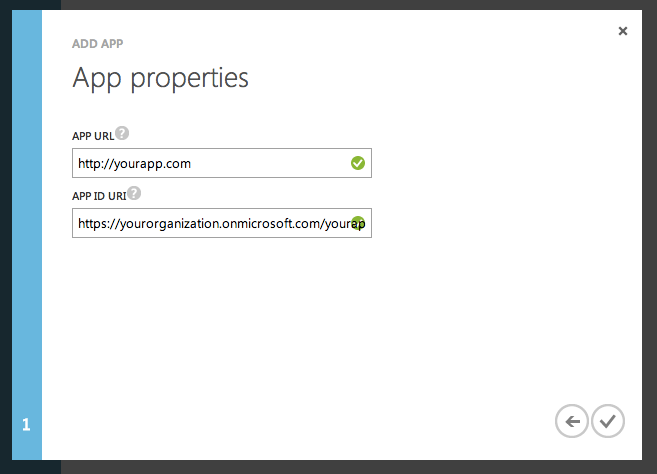
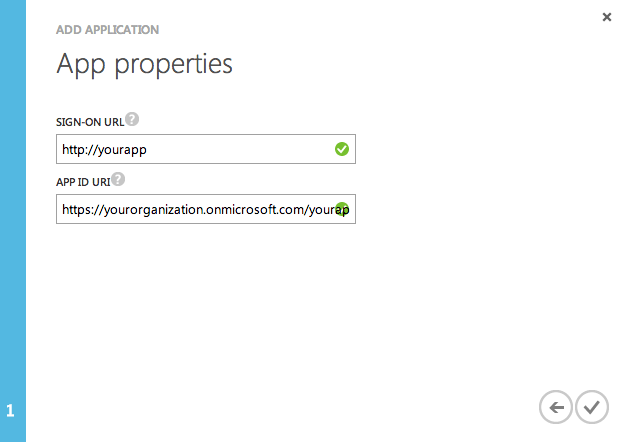
Updated WAAD ClientID tutorial

Changed region(s): [[0.0, 0.0, 1.0, 1.0]]

diff --git a/docs/waad-clientid.md b/docs/waad-clientid.md
@@ -10,55 +10,61 @@ After signing up on Windows Azure, click on **Active Directory** item on the Das
 
 <img src="img/waad-0.png" style="width: 60%;  border: 2px solid #eee;" />
 
-Click on **CREATE YOUR DIRECTORY**
+Click on **ADD+** at the bottom of the screen:
 
 <img src="img/waad-1.png" style="width: 60%;  border: 2px solid #eee;" />
 
-Enter the subdomain, e.g.: **@@account.tenant@@** (this could be anything, does not have to match with Auth0 subdomain and it will be used in the next step). Enter also your country and a friendly name for the organization.
+Enter a subdomain, e.g.: **@@account.tenant@@** (this could be anything, does not have to match with Auth0 subdomain and it will be used in the next step). Enter also your country and a friendly name for the organization.
 
 <img src="img/waad-2.png" style="width: 60%;  border: 2px solid #eee;" />
 
-## 2. Create a new Integrated Application
+## 2. Create a new Application
 
-Once the Windows Azure AD was created, go to **INTEGRATED APPS** and click on **ADD AN APP**
+Once the Windows Azure AD was created, go to **APPLICATIONS** and click on **ADD AN APPLICATION**:
 
 <img src="img/waad-3.png" style="width: 60%;  border: 2px solid #eee;" />
 
-Enter a friendly name for the application and select either **SINGLE SIGN ON** or **SINGLE SIGN ON, READ DIRECTORY DATA**. The permission to **READ DIRECTORY DATA** will allow you to do things like a query of "users in the Windows Azure AD domain".
+Select "Add an application my organization is developing":
+
+<img src="img/waad-3b.png" style="width: 60%;  border: 2px solid #eee;" />
+
+Enter a friendly name for the application and select "WEB APPLICATION AND/OR WEB API":
 
 <img src="img/waad-4.png" style="width: 60%;  border: 2px solid #eee;" />
 
-Enter the following:
+Proceed to the next screen and enter the following:
 
-* **APP URL**: your application URL (completely arbitrary)
+* **SIGN_ON URL**: your application URL (completely arbitrary)
 * **APP ID URI**: https://**@@account.tenant@@**.onmicrosoft.com/yourapp
 
 > NOTE: The APP ID URI is just a logical identifier, not a real URL. It is important to use the value as specified above in APP ID URI. For instance, if the Windows Azure AD you've just created is **myorg.onmicrosoft.com**, here you would enter https://**myorg.onmicrosoft.com**/yourapp.
 
 <img src="img/waad-5.png" style="width: 60%;  border: 2px solid #eee;" />
 
-## 3. Configure the Integrated Application
+## 3. Configure the Application
 
 Once the application has been created, you will have to configure a couple of things. Click on **CONFIGURE** to continue.
 
-<img src="img/waad-6.png" style="width: 60%;  border: 2px solid #eee;" />
-
-First, make sure to turn on **EXTERNAL ACCESS**. You can also customize the logo here and the application URL that you entered before.
+You can customize the logo here and the application URL that you entered before if needed.
 
 <img src="img/waad-7.png" style="width: 60%;  border: 2px solid #eee;" />
 
-Then, enter the following values on **KEYS** and **REPLY URL**, and click **Save**.
+Enter the following values on **KEYS** and **REPLY URL**, and click **Save**.
 
 * **KEYS**: Select 1 or 2 years (when you save it will show the key)
 * **REPLY URL**: https://@@account.namespace@@/login/callback
 
 <img src="img/waad-8.png" style="width: 60%;  border: 2px solid #eee;" />
 
+Modify permissions so your app an read the directory:
+
+<img src="img/waad-8b.png" style="width: 60%;  border: 2px solid #eee;" />
+
 Make sure to copy the value of the secret before leaving this screen.
 
 <img src="img/waad-9.png" style="width: 60%;  border: 2px solid #eee;" />
 
-## 4. Copy the Client ID and Secret in Auth0
+## 4. Copy the Client ID and Secret Auth0
 
 Finally, copy and paste the Client ID and the Key in Auth0.
 
